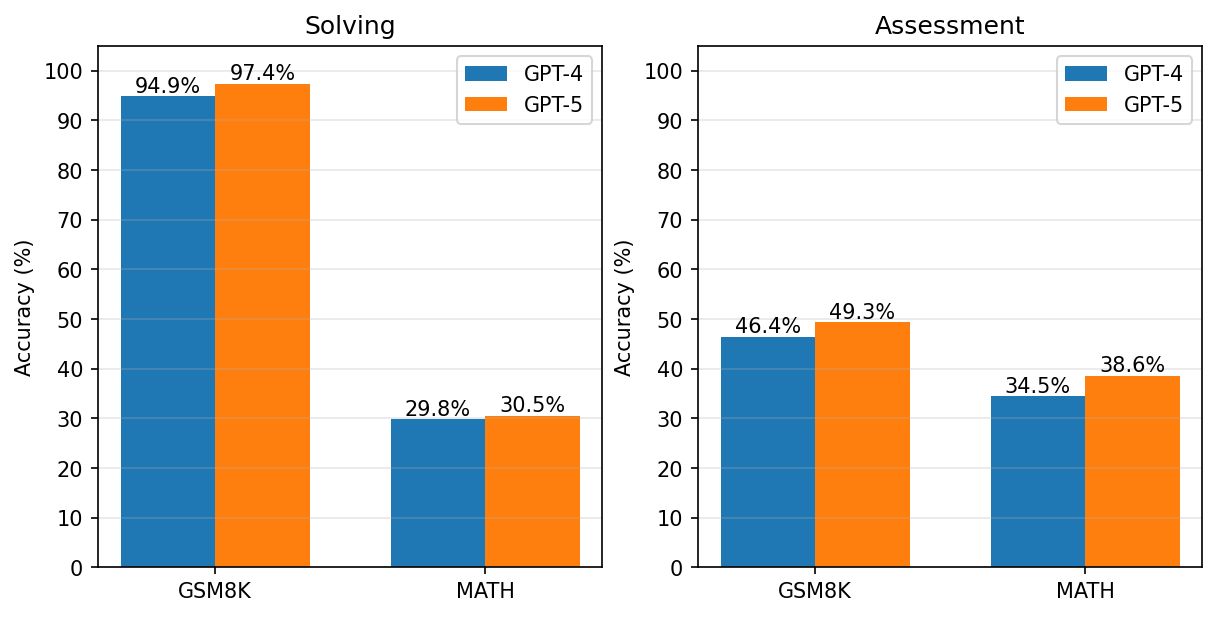
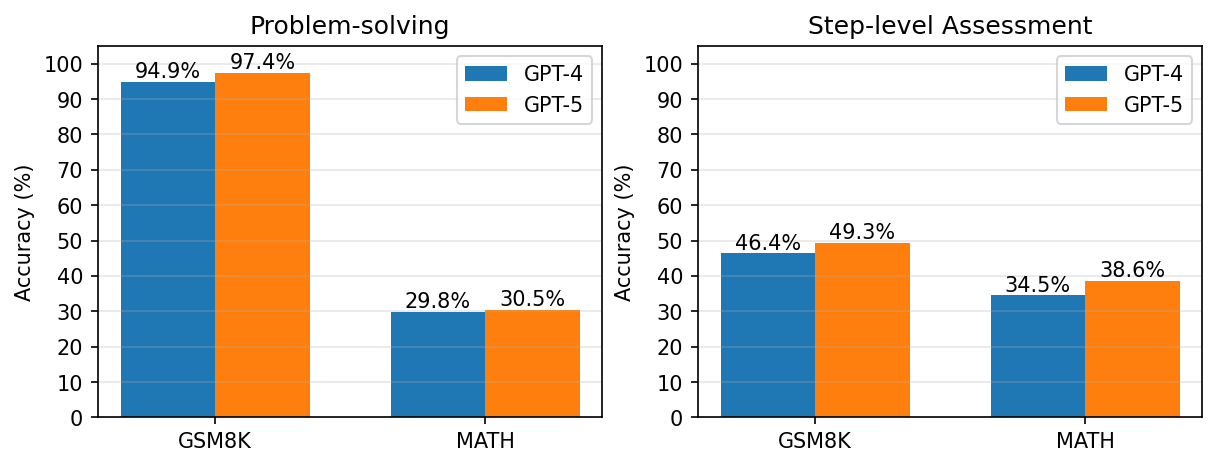
update result figures and paper metrics docs
Reduce dual-panel figure heights, regenerate the updated PNG outputs, and refresh README documentation for reproducible results artifacts.

Made-with: Cursor

diff --git a/results/paper_metrics/qualitative_analysis_section.tex b/results/paper_metrics/qualitative_analysis_section.tex
@@ -1,0 +1,26 @@
+% =============================================================================
+% Refined \subsection{Qualitative Analysis of Divergent Cases}
+% Uses real example content from assessment outputs as evidence.
+% Paste this into your paper in place of the original subsection.
+% =============================================================================
+
+\subsection{Qualitative Analysis of Divergent Cases}
+
+The qualitative cases illustrate why the relationship between solving and assessment is strong but incomplete. We consider the four outcome combinations (solve correct/incorrect $\times$ assess correct/incorrect), with particular attention to the two most informative types: \textbf{solve correct, assess incorrect} and \textbf{solve incorrect, assess correct}. We support each claim with concrete evidence from the model's outputs.
+
+\paragraph{Solve correct, assess incorrect.}
+In these cases the model produces the correct final answer when solving the problem itself but fails to identify the earliest erroneous step in the benchmark solution---so it detects that something is wrong but mislocalizes the error.
+
+\textbf{GSM8K item gsm8k-192.} The problem asks: over 30 days, Christina had 12 good days initially; the first 24 days are given (8 good, 8 bad, 8 neutral); the next three days are good, neutral, good; how many good days were \emph{left} in the month? The benchmark solution concludes there are 0 good days left. The human annotator marks the \emph{first} error at step 2, where the solution states that ``the number of days left in the month is $30 - 24 = 6$ days'' and builds the rest of the reasoning on that. GPT-4, when assessing this solution, predicted the first error at step 5 instead. The model's rationale was: ``Step 5 incorrectly states that the next three days add 3 more good days to the count, but only two of the next three days are good (good, neutral, good), so it should add 2, not 3.'' Thus the model correctly identified a real counting error (adding 3 instead of 2 good days) but attributed it to step 5 rather than to the earlier step 2, where the structure of the reasoning first goes wrong. This shows that solving the problem correctly does not guarantee correct localization of the earliest error.
+
+\textbf{MATH item math-509.} The problem is to compute $\tan 315^\circ$. The benchmark solution uses the reference angle $45^\circ$ and states that in the fourth quadrant ``the sine is positive and the cosine is negative,'' then gives $\tan 315^\circ = -1$. The human label marks the first error at step 2 (the quadrant sign claim: in the fourth quadrant, sine is negative and cosine is positive). GPT-4 predicted the first error at step 3 and gave the rationale: ``Step 3 contains a conceptual error: it incorrectly states that in the fourth quadrant, `the sine is positive and the cosine is negative.' In fact, in the fourth quadrant, sine is negative and cosine is positive.'' So the model identified the very same conceptual mistake as the annotator but pointed to step 3 instead of step 2. The assessment is wrong only in the \emph{index} of the earliest error, not in the type of error---illustrating that critique can be semantically on target while still failing the exact-match criterion used in the benchmark.
+
+\paragraph{Solve incorrect, assess correct.}
+Here the model fails to solve the original problem (its own solution has a wrong final answer) but correctly assesses the benchmark solution---either by correctly predicting ``no error'' (label $-1$) or by correctly identifying the earliest error step.
+
+\textbf{GSM8K item gsm8k-238.} The problem asks: Charisma meditates 15 minutes twice per day and does 1 hour of yoga 5 days per week; how much time on meditation and yoga in 4 weeks? The benchmark solution computes $0.5$ hours/day meditation $\times$ 7 days $\times$ 4 weeks $= 14$ hours, plus 5 hours/week yoga $\times$ 4 weeks $= 20$ hours, for a total of 34 hours. All steps are correct (human label $-1$). GPT-4's \emph{own} solution to this problem was incorrect (solve incorrect), but when given the benchmark solution to assess, the model predicted label $-1$ and stated: ``All steps are correct. Each calculation accurately reflects the problem conditions, and the reasoning is valid throughout.'' So the model failed to generate a correct solution itself yet correctly judged this solution as error-free, indicating that assessment can succeed using capabilities that are not sufficient for correct generative solving.
+
+\textbf{MATH item math-572.} The problem gives $a+b=7$ and $a^3+b^3=42$ and asks for $1/a + 1/b$ as a common fraction. The benchmark solution uses the sum-of-cubes identity, derives $ab = 43/3$, then computes $1/a + 1/b = (a+b)/(ab) = 7/(43/3) = 21/43$. The human label is $-1$ (all steps correct). GPT-4 failed to solve this problem in the solving task but, when assessing the given solution, predicted $-1$ with the rationale: ``All steps are mathematically correct: the sum of cubes identity is applied properly, the expressions are manipulated correctly, and the final answer is computed accurately using the given values.'' Again, the model's generative solution was wrong while its step-level assessment was correct, supporting the view that critique can draw on skills that partially overlap with, but are not identical to, those required for solving.
+
+\paragraph{Summary.}
+The four cases, with the exact problem content, step indices, and model rationales above, show that (i) solving correct does not imply assessment correct (gsm8k-192, math-509: wrong earliest-error localization despite correct final answer), and (ii) solving incorrect does not imply assessment incorrect (gsm8k-238, math-572: correct ``no error'' assessment despite wrong own solution). Together they support the claim that transfer from problem-solving to step-level assessment is real but incomplete, and that assessment relies in part on capabilities that are not fully redundant with generative solving.

diff --git a/scripts/plot_results.py b/scripts/plot_results.py
@@ -143,11 +143,11 @@ def plot_solving_and_assessment_dual(
     means_solve, _ = _compute_means_stds(solving_data)
     means_assess, _ = _compute_means_stds(assessment_data)
 
-    fig, axes = plt.subplots(1, 2, figsize=(8, 4), layout="constrained")
+    fig, axes = plt.subplots(1, 2, figsize=(8, 3.0), layout="constrained")
     for ax, means, title in zip(
         axes,
         [means_solve, means_assess],
-        ["Solving", "Assessment"],
+        ["Problem-solving", "Step-level Assessment"],
     ):
         bars1 = ax.bar(x - width / 2, means["gpt-4"], width, label="GPT-4")
         bars2 = ax.bar(x + width / 2, means["gpt-5-tp"], width, label="GPT-5")

diff --git a/scripts/analyze_paper_metrics.py b/scripts/analyze_paper_metrics.py
@@ -280,7 +280,7 @@ def main() -> int:
     try:
         import numpy as np
         import matplotlib.pyplot as plt
-        fig, axes = plt.subplots(1, 2, figsize=(8, 4), layout="constrained")
+        fig, axes = plt.subplots(1, 2, figsize=(8, 3.0), layout="constrained")
         for ax, split in zip(axes, SPLITS):
             x = np.arange(2)  # Solved correctly | Solved incorrectly
             width = 0.35

diff --git a/README.md b/README.md
@@ -93,3 +93,27 @@ Results are organized under **`output/<model>/<task>/<split>/[<run>/]`** (e.g. `
 
 - **Problem-solving**: Correctness is computed by comparing the model’s extracted final answer to **`gold_answer`** (see `evaluate_problem_solving.py`).
 - **Assessment**: Ground truth is each row’s **`label`**. We compare the model’s **`llm_label`** to it and store **`correctness_llm_label`** in each assessment output JSON.
+
+## Results and figures
+
+- Aggregated 3-run summary figures are written to `results/figures/`:
+  - `solving.png`
+  - `assessment.png`
+  - `solving_and_assessment.png` (dual-panel figure)
+- Aggregated tables are written to `results/`, including `accuracy_mean_3runs.csv`.
+- Paper-oriented metrics and plots are written to `results/paper_metrics/`, including:
+  - `assessment_on_solved_vs_unsolved.csv`
+  - `assessment_on_solved_vs_unsolved.png`
+  - `processbench_metrics.csv`
+  - `solve_assess_gap.csv`
+  - `statistical_test_2x2.csv`
+  - `significance_transfer.csv`
+  - `exact_near_miss.csv`
+  - `qualitative_case_examples.txt`
+
+Regenerate these artifacts from current `output/`:
+
+```bash
+python scripts/plot_results.py
+python scripts/analyze_paper_metrics.py
+```
